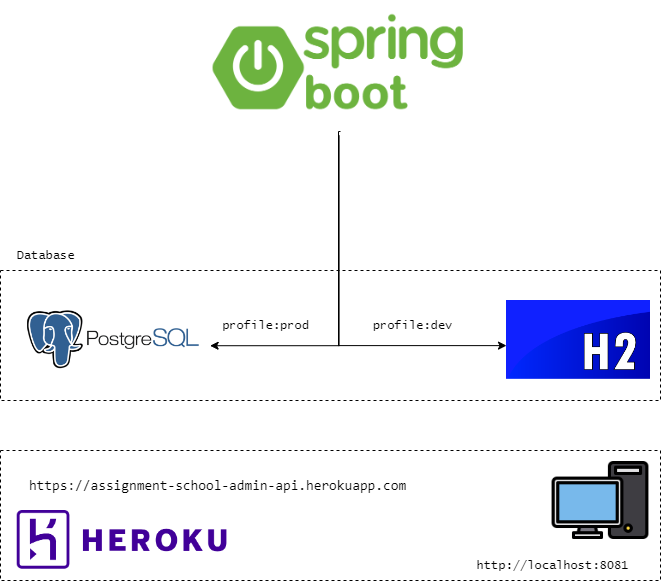
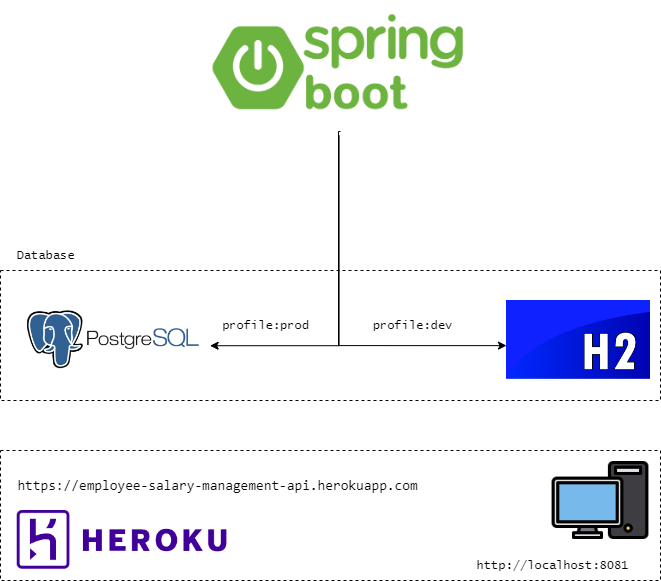
refactor

Changed region(s): [[0.0303, 0.8055, 0.6354, 0.8675]]

diff --git a/README.md b/README.md
@@ -1,3 +1,76 @@
+# Assignment for technical assessment [(Requirement)](./src/main/resources/Instructions.pdf)
+
+### Introduction
+The Employee Salary Management Web Service is a MVP application designed to help HR departments manage and analyze employees' salaries. This service maintains an employee list that includes unique alphanumeric IDs assigned by the company, unique alphanumeric logins assigned by the company, and non-unique possibly non-English names.
+
+### Features
+The Employee Salary Management Web Service provides the following features:
+
+- Add a new employee
+- Update an employee's information
+- Find employees by ID and/or login (exact match)
+- Delete an employee (restricted permission)
+- Analyze employee salaries (average, minimum, maximum)
+
+### Technology Stack
+The Bookstore API is built using the following technology stack:
+
+- Java 11
+- Spring Boot Framework
+- Maven
+- H2 Database (for local development environment)
+- PostgreSQL (for production environment)
+
+The Spring Boot Framework provides a robust and scalable platform for building web applications. H2 Database is used for local development, providing an in-memory database for quick and easy testing. For production, the project is configured to use PostgreSQL, a powerful and reliable relational database management system.
+
+By utilizing these technologies, the project is able to deliver a fast, reliable, and secure web application for managing assignments and students.
+
+
+### Architecture diagram illustration
+![Image](./src/main/resources/architecture-diagram.png)
+
+
+### DB diagram illustration
+![Image](./src/main/resources/db-diagram.PNG)
+
+
+### Preloaded data
+
+There is no pre-loaded data so you have to manually add data or import data from file. [HERE](./src/main/resources/employee.csv) is the pre-loaded data file.
+
+
+### How to Run
+
+To run the Bookstore API, follow these steps:
+
+- Make sure you have fulfilled the above software requirements.
+
+- Clone this repository to your local machine by running the below command in terminal:
+
+      git clone https://github.com/norulshahlam/employee-salary-management-assignment.git
+
+- Navigate to the project directory in the terminal/command prompt.
+
+- Build the app by running the following command:
+
+       mvn clean install package
+
+- The build application will be stored in /target folder. Now run the following command to run the app:  
+
+       java -jar target/employee-salary-management-assignment-0.0.1-SNAPSHOT.jar
+
+- Now your application has started. By default, dev profile is selected and there is no preloaded data as mentioned above.
+
+- You can test the API using swagger by opening any browser and use the following url:
+
+      {hostname}/swagger-ui/index.html#/
+
+- Alternatively, you can use postman to manually test the endpoints. Download the postman  collection [**HERE**](./src/main/resources/employee-salary-management-assignment.postman_collection.json), and use Postman to import this collection. Now you can test the endpoints using Postman. Make sure you have postman installed. You can click [**HERE**](https://www.postman.com/downloads/) to download if you dont't have one.
+
+
+
+***************************************
+
 Solution was the H2 version. We upgraded also H2 to 2.0 but that version is not compatible with Spring Batch 4.3.4. Downgrade to H2 version 1.4.200 solved the issue.
 
 Uses jpa specifications sources:
